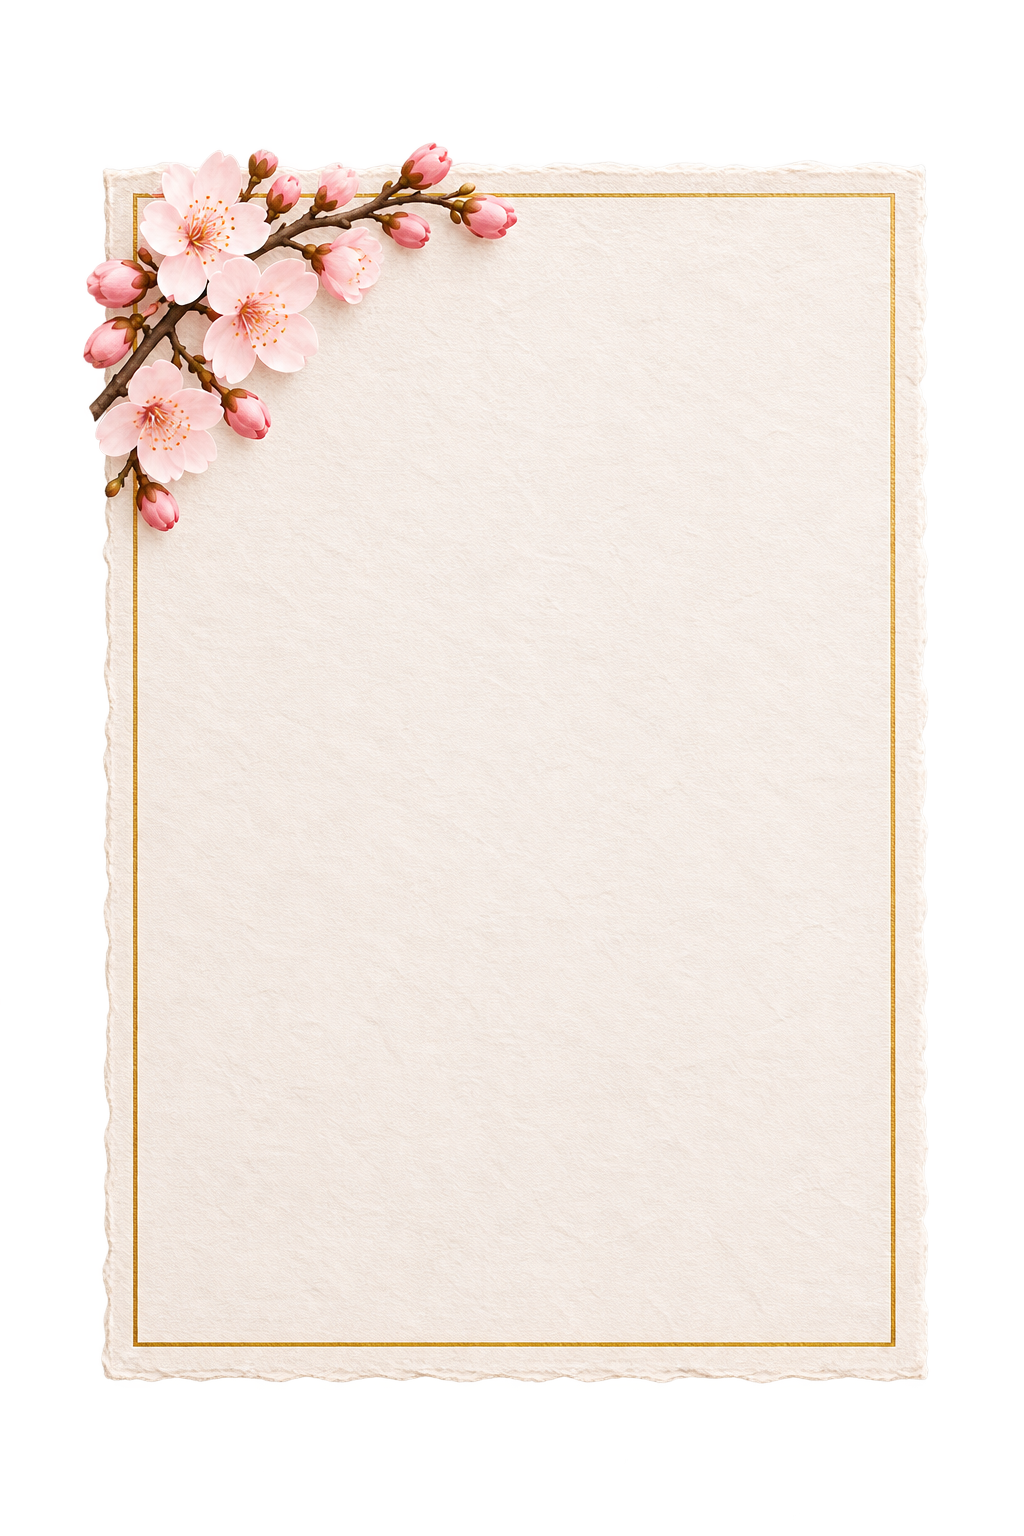
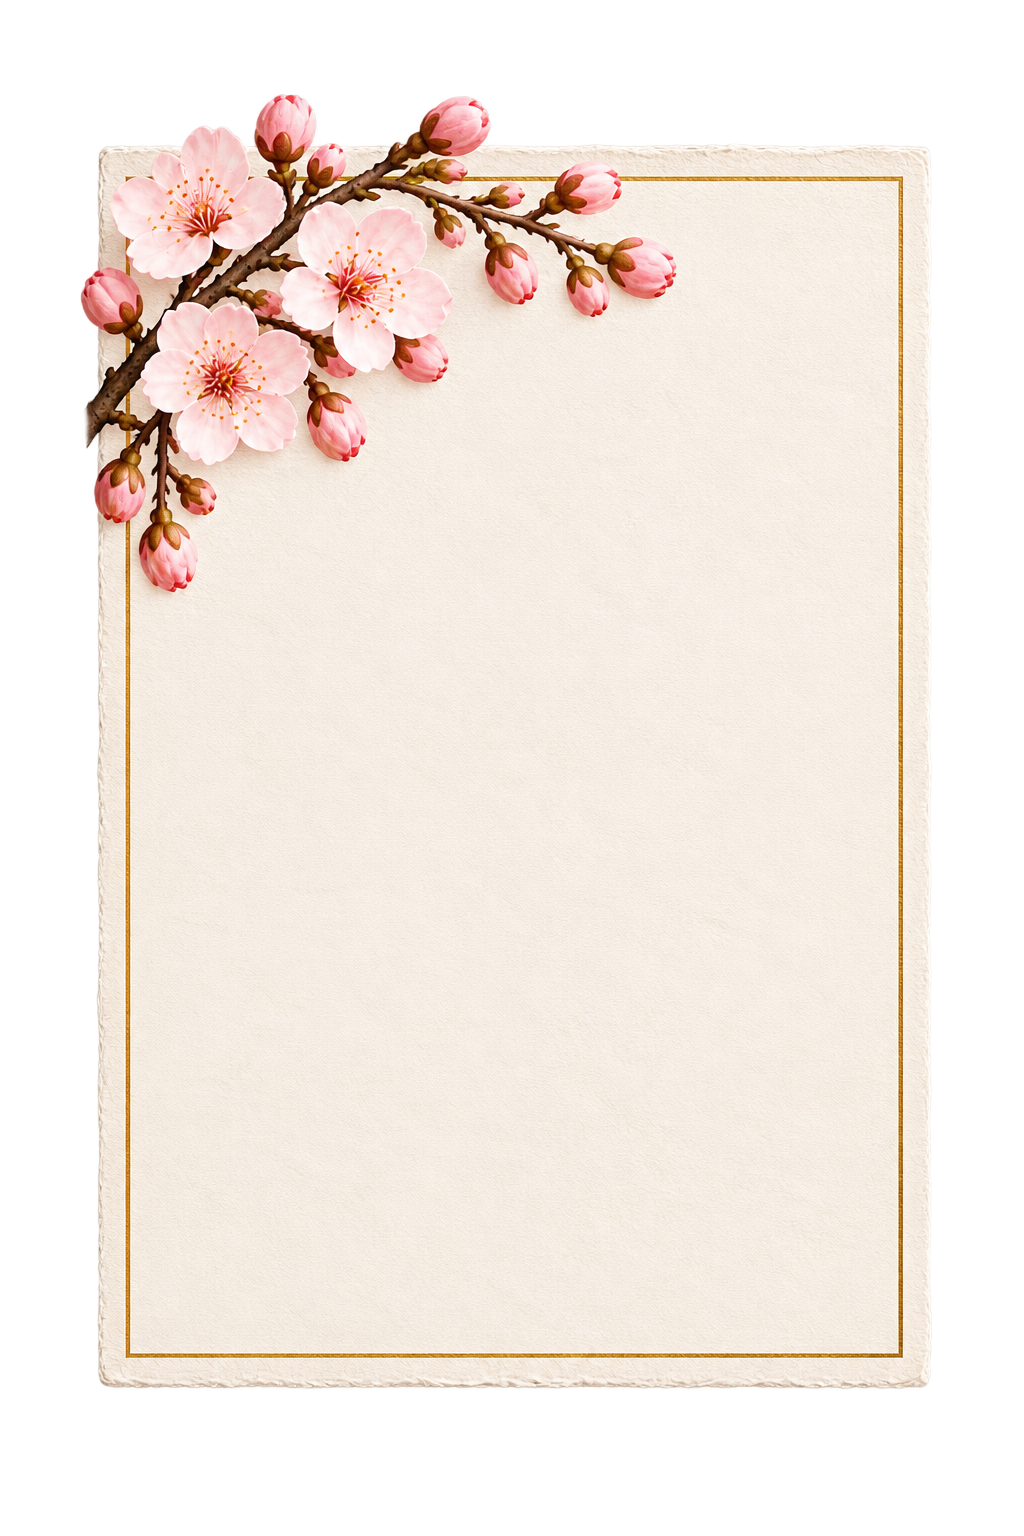
G215: ara kayıt (devam, 4/8)

Changed region(s): [[0.0625, 0.0625, 0.9062, 0.9062]]

diff --git a/gorevler/G215-gorsel.md b/gorevler/G215-gorsel.md
@@ -58,6 +58,13 @@ Kısım 2 — oturum sonu, 6/8 seçilen dosya; iki çerçeve tamamlanamadı:
 - PAKET 2 bu oturumda üretilmedi. Eş zamanlı main güncellemesinde `gpt-gorsel-M` fotoğrafları geldi; salt okunur `--paket 2` kontrolü 5/5 GEÇTİ. Günlük çakışması, entegratörün bu kaydı ve kendi 4/8 ara kaydı birlikte korunarak çözüldü.
 - **Kısım 2 bitti denemez:** iki çerçeve için düz opak yeşil pencere + gerçek dış alfa koşulu imagegen ile halen sağlanamadı. Kalan bu oturum parçaları `frame_portrait`, `frame_landscape`; ardından kapsam dışı `decor_br` (Kaydet: `florals_br`), `accent_1–3`, `divider`, `web_hero`. PAKET 2 main'de hazır. Görev `alindi` kalır; ayrı dal/PR açılmadı.
 
+Devam — gpt-gorsel-N (2026-10-14), ara kayıt 4/8:
+- Kaydedilen ilk dört parça: `parts/closure.png`, `info_card.png`, `frame_portrait.png`, `frame_landscape.png`; dosya denetimleri 4/4 GEÇTİ. Kapanış 1024×1024 kare; bilgi kartı ve dikey çerçeve 1024×1536; yatay çerçeve 1536×1024. Tümü gerçek alfa PNG, yazısız ve dış gölgesiz.
+- `closure.png` kullanıcının yeni ölçü talebiyle yeniden üretildi; W1'deki üç çiçekli kısa dal referans alındı. Seçilen dalın alfa >128 genişliği karenin %69,8'i; zarf koordinatlarına hizalanmadı. İlk çıktı fazla büyük olduğu için ikinci görsel seçildi.
+- Dikey çerçevede kaynak prompt'un yuvarlak penceresi yerine kullanıcının istediği yaklaşık 3:4 oval pencere üretildi. Ölçülen yeşil alan en/boy oranları: dikey 0,726, yatay 1,459 (yaklaşık 3:2); yeşil pencere payları %28,4 / %33,5.
+- Çerçeveler yeşil merkezde saydamlaşma/koyulaşma ve pencereye taşan süsler nedeniyle tekrar üretildi. Seçilenler önce opak yeşil yüzeyli ara görsel, ardından yalnız dış zeminin imagegen ile şeffaflaştırılması yoluyla hazırlandı. Kullanıcı kodla pencere boyamayı reddetti; yeşil pikseller kodla doldurulmadı. Yalnız ton farkı nedeniyle yeniden üretim yapılmadı.
+- Üreticinin kare 1254 px çıktıları ve nesne çevresindeki boşluklar, istenen teslim ölçülerine orantılı PNG boyutlandırma ve şeffaf tuval boşluğu ile hazırlandı; nesne çizimi ve pencere oranı korunuyor. W1 comp'ları, mevcut zarf/kart parçaları ve PAKET 2 dosyaları korunuyor; repoya deneme/rapor/önizleme dosyası eklenmedi. Görev `alindi` kalır.
+
 ## Günlük
 - 2026-10-09 blokaj: K21: Paket 1 (yalnız doku/dekor) yerine Paket 4 (GPT tasarlar). G203 yerine G030; diğerleri G033 ile Paket 4'e çevrilecek
 - 2026-10-13 yeniden tanımlandı (K22–K24, G033)
@@ -72,3 +79,4 @@ Kısım 2 — oturum sonu, 6/8 seçilen dosya; iki çerçeve tamamlanamadı:
 - 2026-10-14 devam: gpt-gorsel-N (önceki sohbet kapandı)
 - 2026-10-14 ara kayıt: gpt-gorsel-G; kısım 2, 6/8: info_card ve decor_tl (Kaydet: florals_tl) kaydedildi. İki çerçeve imagegen'de yeşil merkez gradyanı/alfa boşluğu nedeniyle seçilemedi; kullanıcı yalnız imagegen istedi, kodla onarım yapılmadı.
 - 2026-10-14 gpt-gorsel-G: kısım 2 tamamlanamadı; kalan: frame_portrait, frame_landscape + decor_br, accent_1–3, divider, web_hero. PAKET 2 gpt-gorsel-M tarafından main'de tamamlandı, 5/5 kontrol geçti. Durum alindi; bu oturum burada durdu.
+- 2026-10-14 ara kayıt: gpt-gorsel-N; devam, 4/8: kare closure, info_card, frame_portrait ve frame_landscape kaydedildi; dosya denetimleri 4/4 GEÇTİ.
